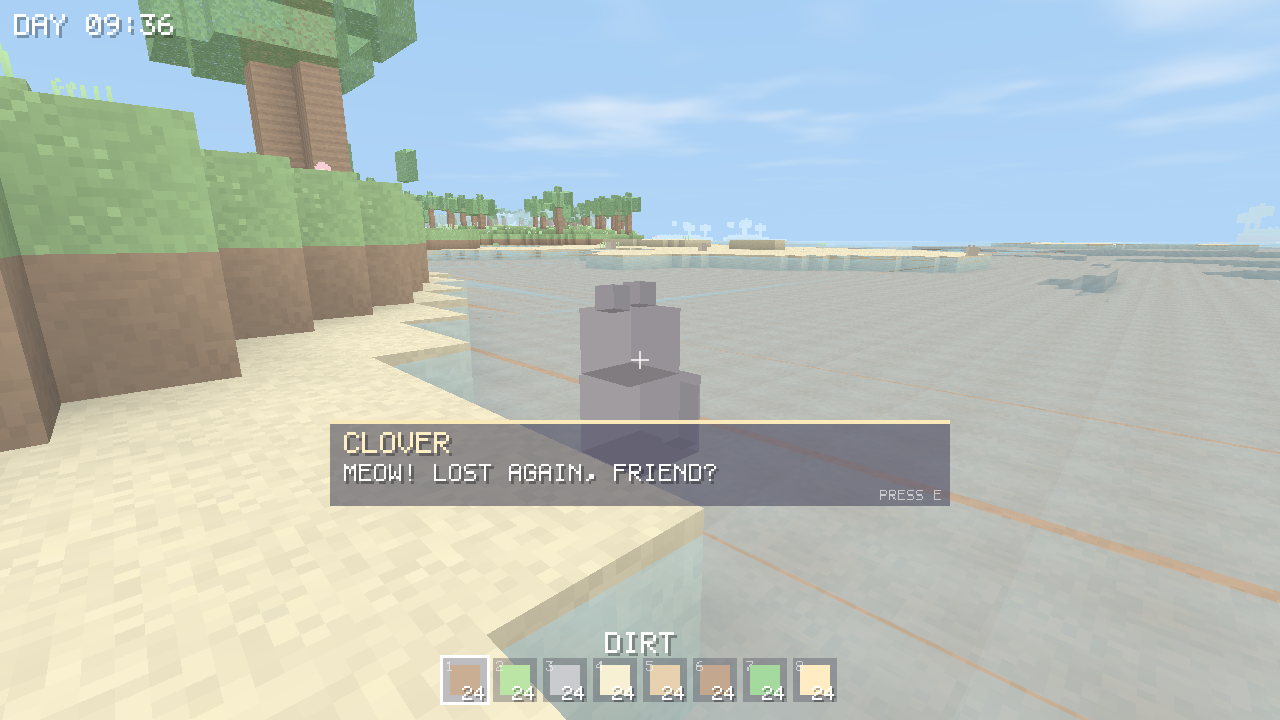
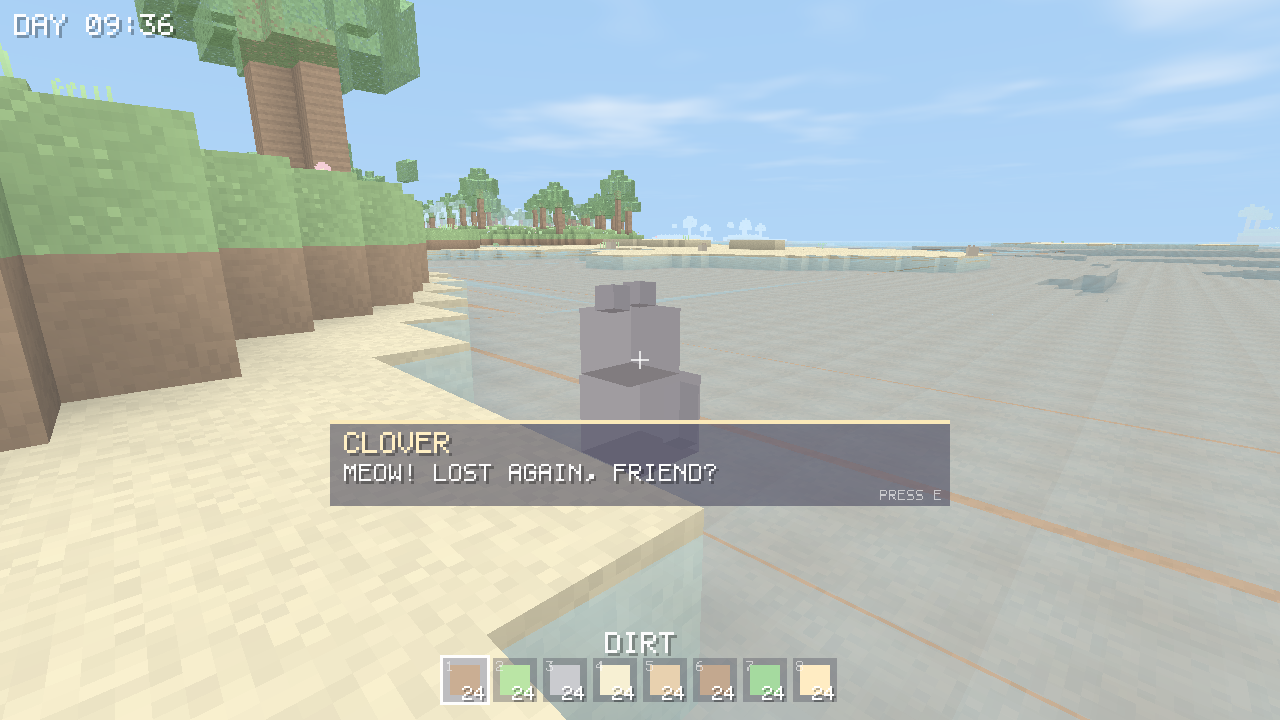
Stage 27: grand oak variety
- Broadleaf/cherry trees occasionally grow as grand old trees with taller trunks
  and a broader, rounded canopy, giving forests and groves a varied silhouette.

Changed region(s): [[0.0938, 0.0, 0.3438, 0.1528], [0.2812, 0.2139, 0.5, 0.3056]]

diff --git a/crates/worldgen/src/generator.rs b/crates/worldgen/src/generator.rs
@@ -404,15 +404,23 @@ impl WorldGenerator {
         leaf: BlockId,
         rng: &mut SplitMix64,
     ) {
-        let trunk_h = 4 + (rng.next_u64() % 3) as i32; // 4..6
+        // One in eight is a grand old tree: taller trunk and a broader canopy.
+        let grand = rng.next_f32() < 0.12;
+        let trunk_h = if grand {
+            7 + (rng.next_u64() % 3) as i32 // 7..9
+        } else {
+            4 + (rng.next_u64() % 3) as i32 // 4..6
+        };
         let base = surface + 1;
         for h in 0..trunk_h {
             self.stamp(storage, origin, wx, base + h, wz, blocks::TRUNK, true);
         }
         let top = base + trunk_h;
-        let r = 2;
-        for dy in -1..=2 {
-            let layer_r = if dy >= 2 { 1 } else { r };
+        let r = if grand { 3 } else { 2 };
+        let (lo, hi) = if grand { (-2, 3) } else { (-1, 2) };
+        for dy in lo..=hi {
+            // Taper the canopy toward the top for a rounded silhouette.
+            let layer_r = if dy >= hi - 1 { r - 1 } else { r };
             for dz in -layer_r..=layer_r {
                 for dx in -layer_r..=layer_r {
                     if dx * dx + dz * dz + (dy * dy) / 2 > layer_r * layer_r + 1 {
